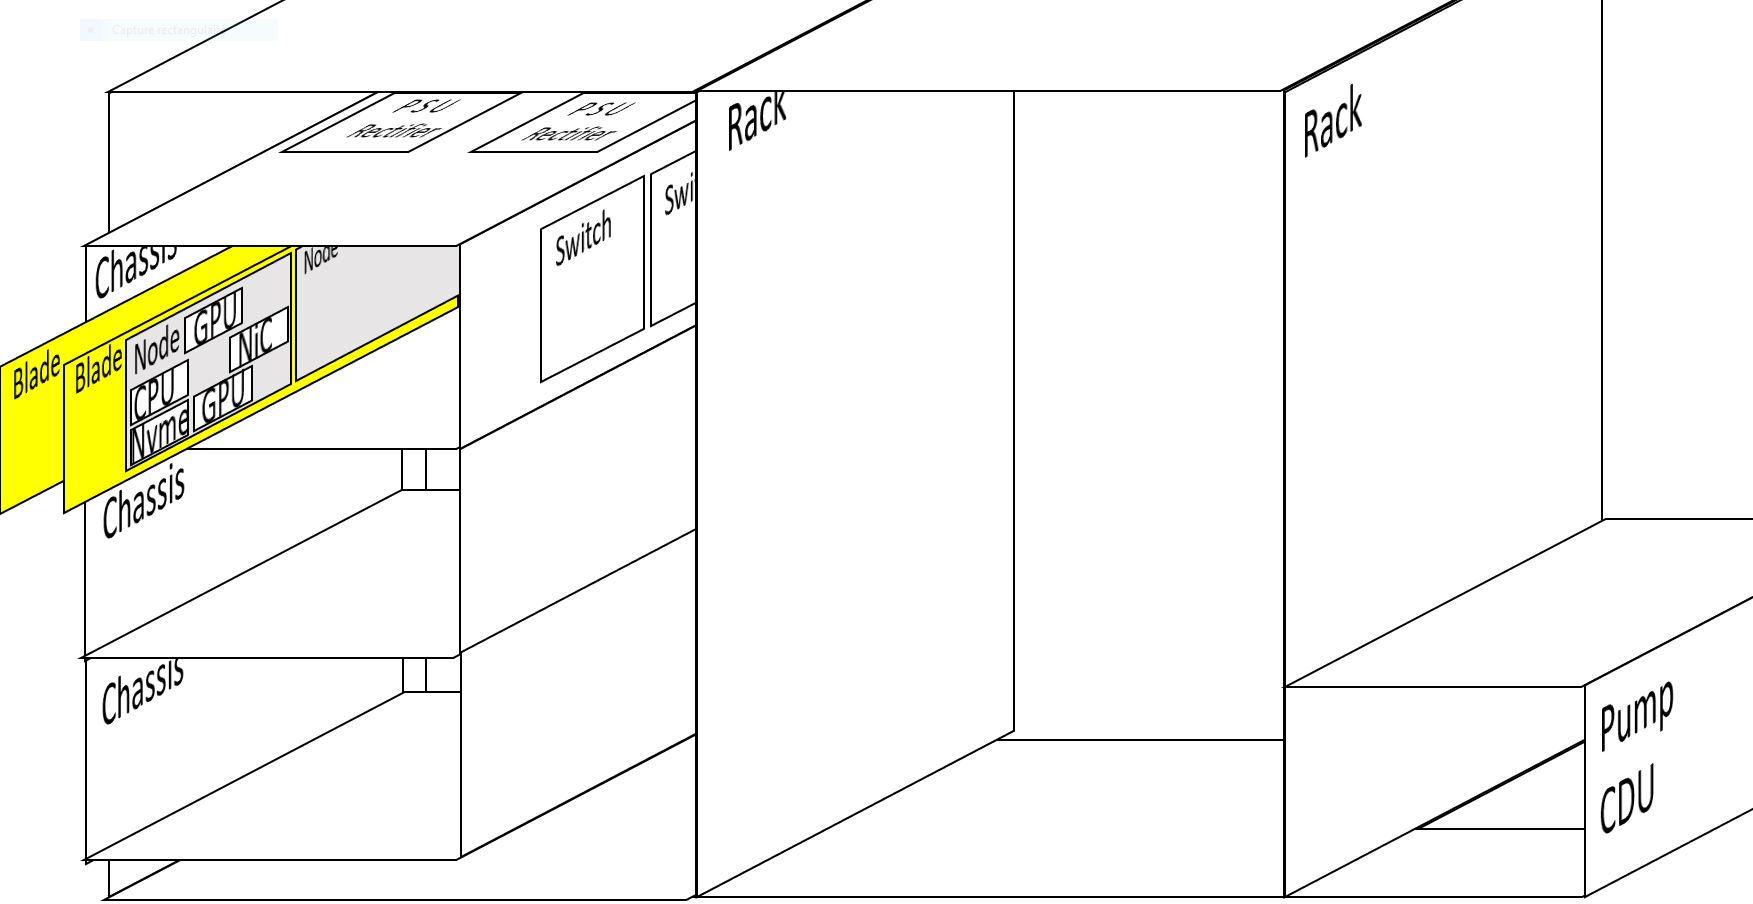
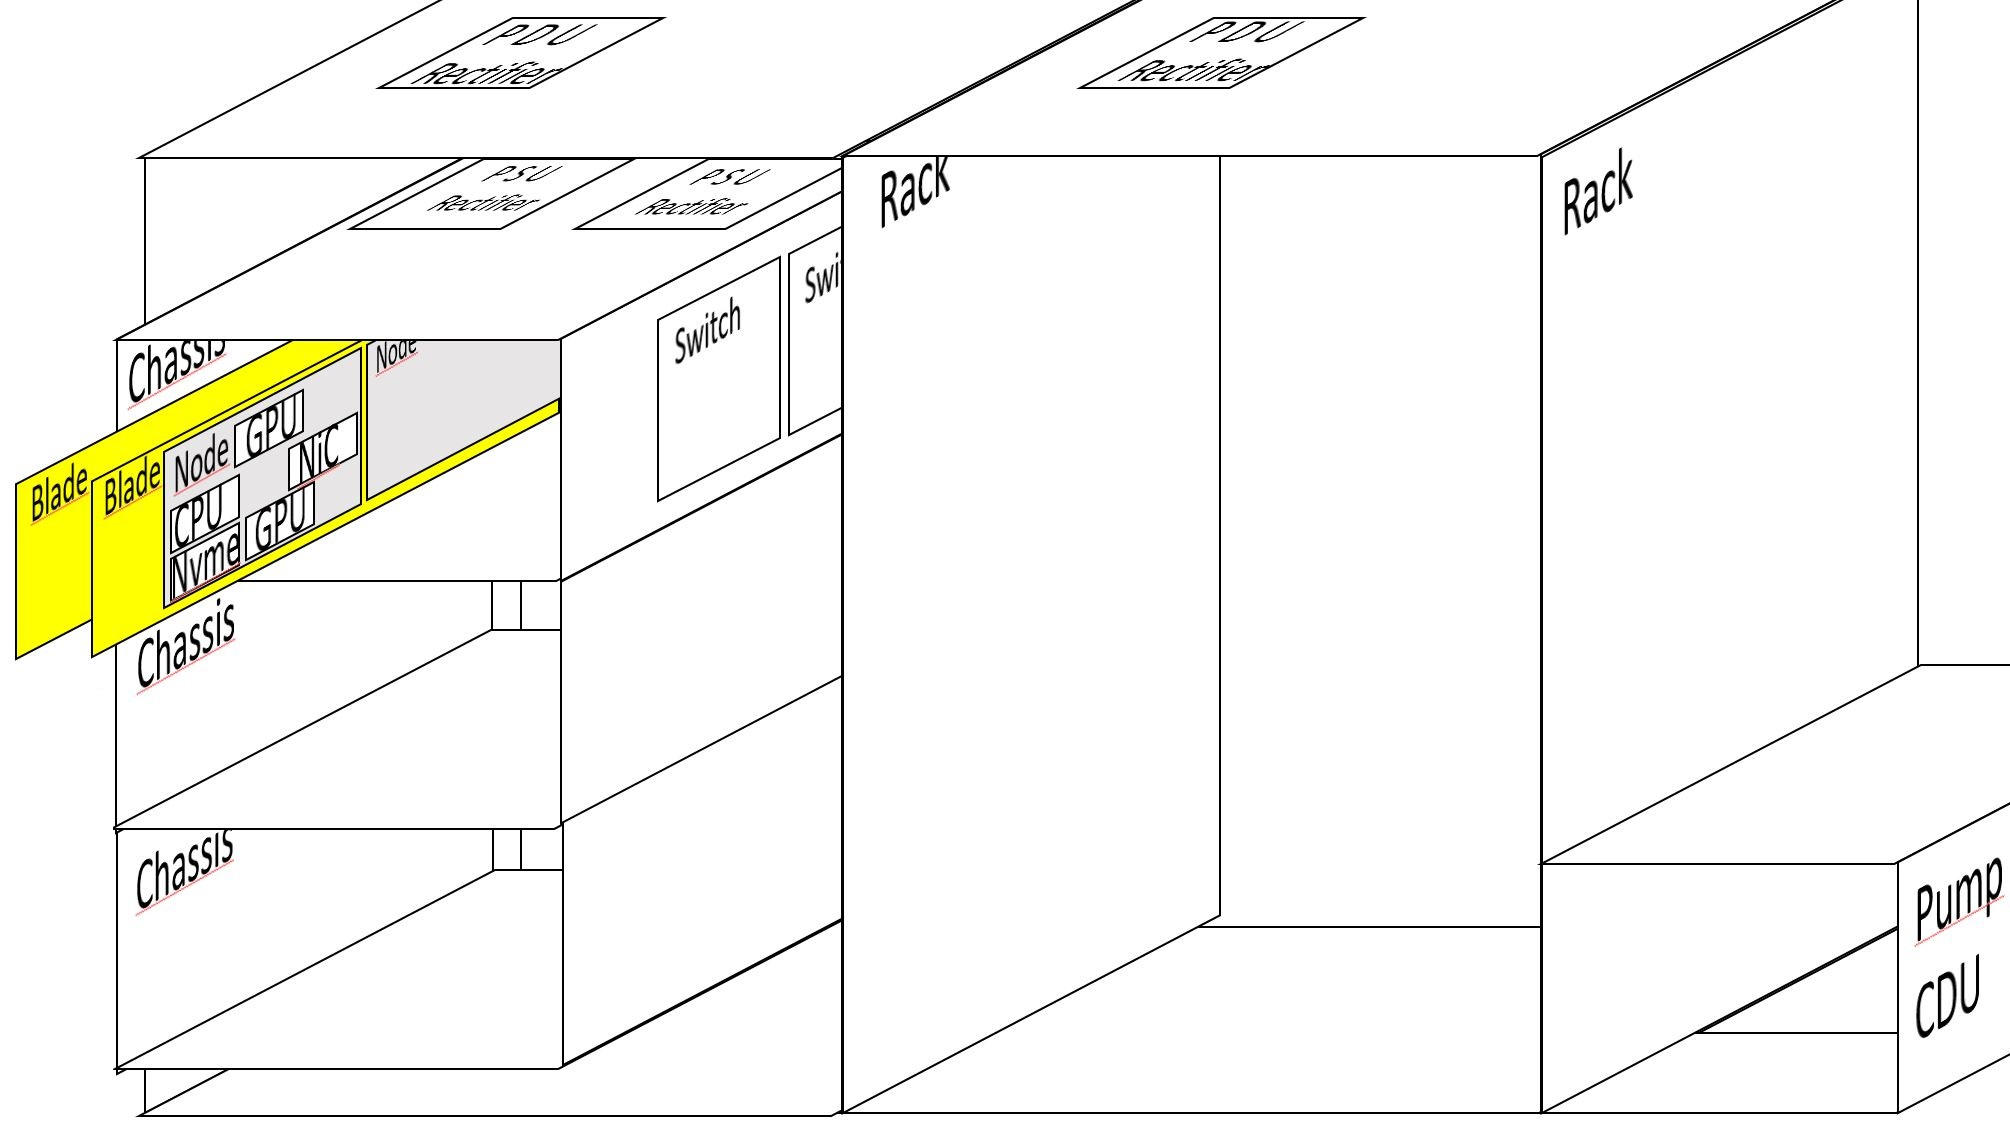
+PDU in explodedview and power.json and scheduler.json describred

diff --git a/RAPS.rst b/RAPS.rst
@@ -31,8 +31,14 @@ Command line flags
 
 
 
-RAPS describing your supercomputer
+Describing your supercomputer
 -----------------------------------
+
+Three files are mandatory for describing your supercomputer in the raps/config/<mysupercomputer> directory. The file system.json describing the hardware layout, the file power.json describing the power characteristics and the file scheduler.json describing the computing jobs.
+
+
+Racks and their content
+^^^^^^^^^^^^^^^^^^^^^^^
 
 .. figure:: raps/pictures/RAPSexplodedView.JPG
    :align: center
@@ -41,7 +47,7 @@ RAPS describing your supercomputer
 
    
 
-In the config directory create a system.json file.
+In the raps/config/<mysupercomputer>/ directory create a system.json file.
 Here from the exploded view of a naive supercomputer, we have:
 
 - 1 CDU pump cooling 2 racks
@@ -58,9 +64,90 @@ Here from the exploded view of a naive supercomputer, we have:
 - not written but 1 Disk/NVME per node is supposed
 
   
-That corresponds to:
+That corresponds to a file  raps/config/<mysupercomputer>/system.json containing:
  .. literalinclude:: raps/system.json
   :language: shell
+
+
+Here are the descriptions of each field:
+
+- NUM_CDUS: total number of pumps
+- RACKS_PER_CDU: number of racks managed by one pump
+- RECTIFIERS_PER_RACK: number of PDU rectifier per rack
+- CHASSIS_PER_RACK: number of chassis/enclosures in each rack
+- SWITCHES_PER_CHASSIS: number of high speed network switches
+- RECTIFIERS_PER_CHASSIS: number of PSU per chassis
+- NODES_PER_RACK: total number of nodes in each rack
+- NODES_PER_BLADE: number of nodes in each blade
+- NODES_PER_RECTIFIER: number of nodes managed by each PSU
+- CPUS_PER_NODE: number of socket/CPU in each node
+- GPUS_PER_NODE: number of GPU in each node
+- NICS_PER_NODE: number of high speed network cards in each node 
+- MISSING_RACKS: List of numbers indicating which rack is missing
+- DOWN_NODES: List of numbers indicating which node is down
+- CPU_PEAK_FLOPS: Floating value indicating the peak Flops of each CPU
+- GPU_PEAK_FLOPS: Floating value indicating the peak Flops of each GPU
+- CPU_FP_RATIO: Floating value between 0 and 1, used to linearly decrease the peak CPU Flops according to the number of Watts consumed
+- GPU_FP_RATIO: Floating value between 0 and 1, used to linearly decrease the peak GPU Flops according to the number of Watts consumed
+
+
+Racks and their powering
+^^^^^^^^^^^^^^^^^^^^^^^^^^^
+  
+Here is an example of a file  raps/config/<mysupercomputer>/power.json for the Frontier supercomputer:
+
+ .. literalinclude:: raps/power.json
+  :language: shell
+
+Description of fields
+             
+- POWER_GPU_IDLE: number of watts consumed by a GPU when idle
+- POWER_GPU_MAX: number of watts consumed by a GPU when reaching its peak Flops/s
+- POWER_CPU_IDLE: number of Watts consumed by a GPU when idle
+- POWER_CPU_MAX: number of Watts consumed by a CPU when reaching its peak Flops/s
+- POWER_MEM: average number of Watts consumed by all the memory of all the CPU in a node
+- POWER_NIC: average number of Watts consumed by one high speed network card in each node
+- POWER_NVME: average number of Watts consumed by all the disks/NVME in each node
+- POWER_SWITCH: average number of Watts consumed by one high speed network switch in each chassis
+- POWER_CDU: average number of Watts consumed by one CDU in each chassis
+- POWER_UPDATE_FREQ: number of seconds between each Watt sample
+- RECTIFIER_PEAK_THRESHOLD: number Watts where the current rectifier has its peak of efficiency
+- SIVOC_LOSS_CONSTANT: number of Watts lost
+- SIVOC_EFFICIENCY: value between 0 and 1 indicating the efficiency
+- RECTIFIER_LOSS_CONSTANT: number of Watts lost
+- RECTIFIER_EFFICIENCY: value between 0 and 1 indicating the efficiency
+- POWER_COST: number of US Dollars per KW.h consumed
+
+
+Racks and their content
+^^^^^^^^^^^^^^^^^^^^^^^
+
+Here is an example of a file  raps/config/<mysupercomputer>/power.json for the Frontier supercomputer:
+
+ .. literalinclude:: raps/scheduler.json
+  :language: shell
+
+Description of fields:
+             
+- SEED: integer used to initialize the random number generator
+- JOB_ARRIVAL_TIME: offset in number of seconds to calculate the arrival time of the next randomly generated job
+- MTBF: Mean Time Before Failure of a node
+- MAX_TIME:  Maximum  physical time (in seconds) simulated 
+- TRACE_QUANTA: number of second between each energy sampling
+- MIN_WALL_TIME: number of seconds of the smallest possible job randomly generated
+- MAX_WALL_TIME: number of seconds of the biggest possible job randomly generated
+- UI_UPDATE_FREQ: Physcal time (in seconds) simulated between each User Interface update
+- MAX_NODES_PER_JOB: number of nodes of the biggest jobs
+- JOB_END_PROBS: Probability of different ending states for randomly generated jobs (their sum should be equal to 1)
+     - COMPLETED: probability between 0 and 1 that this state occurs
+     - FAILED": probability between 0 and 1 that this state occurs
+     - CANCELLED: probability between 0 and 1 that this state occurs
+     - TIMEOUT: probability between 0 and 1 that this state occurs
+     - NODE_FAIL: probability between 0 and 1 that this state occurs
+
+
+
+
   
 RAPS python input data format
 ----------------------------------
